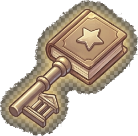
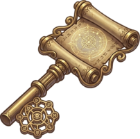
Arregla tooltip del grafico, cambia icono de llave, avisa sobre spam y reemplaza 'Recomendar un libro' por un formulario real
- dolar.html: el contenedor de las barras de inflacion tenia
  overflow:hidden, cortando el tooltip del porcentaje en las barras
  mas altas. Se saca el overflow:hidden.
- aprende.html: se reemplaza el icono de "Fundamentos" (libro+llave
  generico) por una ilustracion de llave mas detallada.
- index.html: el mensaje de exito al guardar progreso ahora avisa
  revisar la carpeta de spam (el mail de Supabase a veces cae ahi).
- blog/index.html: el boton "Recomendar un libro" era un mailto: que
  no hacia nada si el visitante no tenia cliente de mail configurado.
  Se reemplaza por un formulario (titulo, autor, comentario) con el
  mismo patron Turnstile + n8n + planilla-para-revisar-a-mano que las
  reseñas. Nuevo workflow: obol-recomendaciones-n8n.json.

Probado localmente: tooltip visible en la barra mas alta, formulario
de recomendar funciona en modo demo, sin errores en las 14 paginas.

diff --git a/docs/blog/index.html b/docs/blog/index.html
@@ -380,10 +380,16 @@
             </div>
           </div>
 
-          <div style="display:flex;flex-direction:column;justify-content:center;gap:10px;padding:22px;border-radius:20px;background:rgba(255,178,74,.09);border:1px dashed rgba(255,207,138,.4);">
+          <div style="display:flex;flex-direction:column;gap:8px;padding:22px;border-radius:20px;background:rgba(255,178,74,.09);border:1px dashed rgba(255,207,138,.4);">
             <span style="font-family:'Fredoka',sans-serif;font-weight:700;font-size:16px;color:#fff;">¿Tenés uno para sumar?</span>
-            <p style="margin:0;font-weight:600;font-size:13px;line-height:1.5;color:rgba(255,255,255,.66);">Mandanos el libro que te hizo entender la plata y lo agregamos a la biblioteca.</p>
-            <a href="mailto:obol.finance2026@gmail.com?subject=Recomiendo%20un%20libro%20para%20la%20biblioteca%20de%20Obol" style="align-self:flex-start;display:inline-flex;align-items:center;font-family:'Fredoka',sans-serif;font-weight:600;font-size:13px;color:#16213e;background:linear-gradient(90deg,#ffe08a,#ffb24a);padding:10px 18px;border-radius:999px;">Recomendar un libro</a>
+            <p style="margin:0 0 4px;font-weight:600;font-size:13px;line-height:1.5;color:rgba(255,255,255,.66);">Mandanos el libro que te hizo entender la plata y lo agregamos a la biblioteca.</p>
+            <input id="brTitulo" type="text" maxlength="120" placeholder="Título del libro" style="font-family:'Nunito',sans-serif;font-weight:700;font-size:13px;color:#fff;background:rgba(255,255,255,.08);border:1px solid rgba(255,255,255,.18);border-radius:12px;padding:10px 13px;">
+            <input id="brAutor" type="text" maxlength="80" placeholder="Autor (si lo sabés)" style="font-family:'Nunito',sans-serif;font-weight:700;font-size:13px;color:#fff;background:rgba(255,255,255,.08);border:1px solid rgba(255,255,255,.18);border-radius:12px;padding:10px 13px;">
+            <textarea id="brComentario" maxlength="300" rows="2" placeholder="Por qué lo recomendás (opcional)" style="font-family:'Nunito',sans-serif;font-weight:600;font-size:13px;color:#fff;background:rgba(255,255,255,.08);border:1px solid rgba(255,255,255,.18);border-radius:12px;padding:10px 13px;resize:vertical;"></textarea>
+            <div style="display:flex;align-items:center;gap:12px;margin-top:2px;">
+              <button type="button" id="brSubmit" style="cursor:pointer;align-self:flex-start;font-family:'Fredoka',sans-serif;font-weight:600;font-size:13px;color:#16213e;background:linear-gradient(90deg,#ffe08a,#ffb24a);border:none;padding:10px 18px;border-radius:999px;">Recomendar</button>
+              <span id="brMsg" style="font-weight:700;font-size:11px;color:rgba(255,255,255,.55);"></span>
+            </div>
           </div>
 
         </div>
@@ -497,8 +503,10 @@
 <script src="../assets/turnstile-helper.js"></script>
 <script>
 var RESENAS_ENDPOINT = "https://obolfinance.app.n8n.cloud/webhook/obol-resenas";
+var RECOMENDACIONES_ENDPOINT = ""; // pegar acá la URL de producción del webhook de recomendaciones
 var TURNSTILE_SITE_KEY = "0x4AAAAAAEHbemQBbrf5Cw39";
 var tsResenas = window.ObolTurnstile(TURNSTILE_SITE_KEY);
+var tsRecomendar = window.ObolTurnstile(TURNSTILE_SITE_KEY);
 var currentBookId = null;
 
 var BOOKS = {
@@ -752,6 +760,71 @@ function enviarResena() {
 }
 
 document.getElementById('bmRSubmit').addEventListener('click', enviarResena);
+
+// --- Formulario de recomendar un libro ---
+function enviarRecomendacion() {
+  var titulo = document.getElementById('brTitulo').value.trim();
+  var autor = document.getElementById('brAutor').value.trim();
+  var comentario = document.getElementById('brComentario').value.trim();
+  var msg = document.getElementById('brMsg');
+  var btn = document.getElementById('brSubmit');
+
+  if (!titulo) {
+    msg.style.color = '#ff9a7f';
+    msg.textContent = 'Escribí al menos el título.';
+    return;
+  }
+
+  btn.disabled = true;
+  btn.textContent = 'Enviando…';
+  msg.style.color = 'rgba(255,255,255,.55)';
+  msg.textContent = '';
+
+  function mandar(turnstileToken) {
+    var datos = {
+      titulo: titulo,
+      autor: autor,
+      comentario: comentario,
+      pagina: location.pathname,
+      turnstileToken: turnstileToken
+    };
+
+    if (!RECOMENDACIONES_ENDPOINT) {
+      console.warn('[Obol] Falta configurar RECOMENDACIONES_ENDPOINT. Recomendación no enviada (modo demo):', datos);
+      setTimeout(listo, 500);
+      return;
+    }
+
+    fetch(RECOMENDACIONES_ENDPOINT, { method: 'POST', headers: { 'Content-Type': 'text/plain;charset=UTF-8' }, body: JSON.stringify(datos) })
+      .then(function (r) { if (!r.ok) throw new Error('HTTP ' + r.status); return r.text(); })
+      .then(listo)
+      .catch(function (e) { console.error(e); fallar(); });
+  }
+
+  function listo() {
+    btn.disabled = false;
+    btn.textContent = 'Recomendar';
+    msg.style.color = '#6ddbaa';
+    msg.textContent = '¡Gracias! Lo vamos a revisar.';
+    document.getElementById('brTitulo').value = '';
+    document.getElementById('brAutor').value = '';
+    document.getElementById('brComentario').value = '';
+  }
+
+  function fallar() {
+    btn.disabled = false;
+    btn.textContent = 'Recomendar';
+    msg.style.color = '#ff9a7f';
+    msg.textContent = 'No pudimos enviarlo ahora. Probá de nuevo en un rato.';
+  }
+
+  tsRecomendar.getToken(function (token) {
+    if (!token) { fallar(); return; }
+    mandar(token);
+  });
+}
+
+document.getElementById('brSubmit').addEventListener('click', enviarRecomendacion);
 </script>
 
 </body>

diff --git a/docs/privacy.html b/docs/privacy.html
@@ -76,6 +76,7 @@
 • Tu email, si te anotás en la lista de espera
 • Tu email y tu progreso en el demo "Probalo" (qué pregunta ibas contestando, tu puntaje), si elegís loguearte con un link mágico para guardarlo entre visitas
 • El nombre (o seudónimo) y el texto que escribas, si dejás una reseña de un libro en el blog — acá no pedimos ni guardamos tu email
+• El título, autor y comentario que mandes si nos recomendás un libro para la biblioteca — tampoco pedimos email acá
 
 No pedimos contraseña (el login es sin contraseña, por link al mail), ni ubicación, contactos, ni ninguna información sensible. No usamos herramientas de analítica, publicidad ni rastreo de terceros (sin cookies de tracking, sin píxeles).</p>
     </section>
@@ -89,20 +90,20 @@ No pedimos contraseña (el login es sin contraseña, por link al mail), ni ubica
 
 No te mandamos newsletters ni promociones, y no usamos tu email para ningún otro fin.
 
-Si dejás una reseña de un libro, la usamos solo para eso: mostrarla en la página del libro si la aprobamos. Las reseñas no se publican automáticamente — las revisamos antes a mano para evitar spam o contenido de mala fe, así que puede pasar un tiempo entre que la mandás y que aparece (o no aparece, si no la aprobamos).</p>
+Si dejás una reseña de un libro, la usamos solo para eso: mostrarla en la página del libro si la aprobamos. Las reseñas no se publican automáticamente — las revisamos antes a mano para evitar spam o contenido de mala fe, así que puede pasar un tiempo entre que la mandás y que aparece (o no aparece, si no la aprobamos). Lo mismo aplica si nos recomendás un libro: lo revisamos antes de sumarlo a la biblioteca.</p>
     </section>
 
     <section>
       <h2>¿Compartimos tus datos?</h2>
       <p>No vendemos, alquilamos ni compartimos tus datos con terceros con fines comerciales. Usamos tres proveedores, que actúan como encargados del tratamiento de esos datos, no como dueños de la información:
 • Un flujo de automatización en n8n que recibe los formularios del sitio
-• Google (Google Sheets para guardar los registros de la lista de espera y las reseñas de libros, Gmail para los mails de confirmación)
+• Google (Google Sheets para guardar los registros de la lista de espera, las reseñas y las recomendaciones de libros, Gmail para los mails de confirmación)
 • Supabase, que provee el login sin contraseña y guarda tu progreso del demo si elegís loguearte</p>
     </section>
 
     <section>
       <h2>Seguridad</h2>
-      <p>Todo el sitio viaja por HTTPS. Los formularios validan el origen del pedido y limitan la cantidad de envíos diarios para evitar abuso o spam. Los formularios de la lista de espera y de reseñas usan Cloudflare Turnstile (de forma invisible, sin pedirte que resuelvas nada) para confirmar que quien los envía es una persona y no un bot — se aplica el <a href="https://www.cloudflare.com/turnstileprivacypolicy/" target="_blank" rel="noopener">Turnstile Privacy Addendum de Cloudflare</a>. Tu progreso del demo está protegido por Row Level Security en la base de datos: ni siquiera con acceso técnico a la base se puede leer el progreso de otro usuario sin ser ese usuario.</p>
+      <p>Todo el sitio viaja por HTTPS. Los formularios validan el origen del pedido y limitan la cantidad de envíos diarios para evitar abuso o spam. Los formularios de la lista de espera, reseñas y recomendaciones de libros usan Cloudflare Turnstile (de forma invisible, sin pedirte que resuelvas nada) para confirmar que quien los envía es una persona y no un bot — se aplica el <a href="https://www.cloudflare.com/turnstileprivacypolicy/" target="_blank" rel="noopener">Turnstile Privacy Addendum de Cloudflare</a>. Tu progreso del demo está protegido por Row Level Security en la base de datos: ni siquiera con acceso técnico a la base se puede leer el progreso de otro usuario sin ser ese usuario.</p>
     </section>
 
     <section>

diff --git a/docs/index.html b/docs/index.html
@@ -808,7 +808,7 @@
             btn.disabled = false; btn.textContent = 'Guardar progreso';
             if (res.error) { console.error('[Obol] signInWithOtp:', res.error); msg.style.color = '#ff9a7f'; msg.textContent = 'No se pudo enviar. Probá de nuevo en un rato.'; return; }
             msg.style.color = '#6ddbaa';
-            msg.textContent = 'Listo, revisá tu mail y tocá el link.';
+            msg.textContent = 'Listo, revisá tu mail (y la carpeta de spam) y tocá el link.';
           });
       }
       if (btn) btn.addEventListener('click', enviar);

diff --git a/docs/dolar.html b/docs/dolar.html
@@ -213,7 +213,7 @@
       <span style="font-family:'Fredoka',sans-serif;font-weight:600;font-size:17px;color:#16213e;">Inflación mensual, últimos 12 meses</span>
       <span id="chartHint" style="font-weight:700;font-size:12px;color:#8892a6;">cargando serie del INDEC…</span>
     </div>
-    <div id="chartBars" style="display:flex;align-items:flex-end;gap:8px;height:210px;overflow:hidden;"></div>
+    <div id="chartBars" style="display:flex;align-items:flex-end;gap:8px;height:210px;"></div>
   </div>
 </div>
 

diff --git a/automation/n8n/README.md b/automation/n8n/README.md
@@ -128,3 +128,29 @@ Sin el paso 6 el formulario queda en "modo demo": funciona en la página pero no
 - El campo `libro` solo acepta los 7 IDs de libros que ya existen en el código (`padre`, `babilonia`, `pensar`, `lynch`, `triunfo`, `freak`, `vendes`) — si agregás un libro nuevo, sumá su ID a la lista `LIBROS_VALIDOS` dentro del nodo "Valida la reseña".
 - El tope diario arranca en 50 reseñas — de sobra para el volumen esperado, ajustable en `TOPE_DIARIO` si hace falta.
 - No se pide mail, solo un nombre a elección de quien escribe — mucho menos dato personal que en la lista de espera.
+
+---
+
+## 6. Recomendar un libro (`obol-recomendaciones-n8n.json`)
+
+Reemplaza el viejo botón `mailto:` de "¿Tenés uno para sumar?" (que no hacía nada si el visitante no tenía un cliente de mail configurado en el navegador). Mismo patrón que las reseñas: **no se agrega nada solo** a la biblioteca, todo queda en una planilla para revisar a mano.
+
+### Pasos para activarlo
+
+1. **Google Sheet**: crear una planilla nueva con la hoja "Libros recomendados" y estas columnas en la primera fila:
+   `fecha · titulo · autor · comentario · pagina · agregado`
+2. **Importar**: en n8n, `Import from File` → `obol-recomendaciones-n8n.json`.
+3. **Google Sheets**: abrir el nodo "Guarda en la planilla", conectar tu credencial de Google y reemplazar `PEGAR_ID_DEL_GOOGLE_SHEET` por el ID real de esta planilla.
+4. **Turnstile**: abrir el nodo "Verifica Turnstile" y pegar la misma Secret Key que ya usás en los otros workflows.
+5. **Activar** el workflow.
+6. **Copiar la URL de producción** del nodo "Recibe la recomendación" y pegarla en `docs/blog/index.html`, en la línea:
+   ```js
+   var RECOMENDACIONES_ENDPOINT = ""; // pegar acá la URL de producción del webhook de recomendaciones
+   ```
+
+Sin el paso 6 el formulario queda en "modo demo" (funciona en la página pero solo loguea en consola).
+
+### Notas
+
+- Solo el título es obligatorio; autor y comentario son opcionales.
+- El tope diario arranca en 30 — este formulario se usa mucho menos que el de reseñas.
